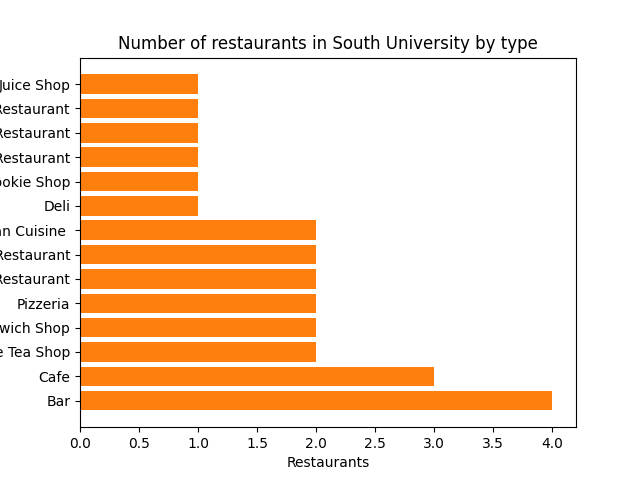
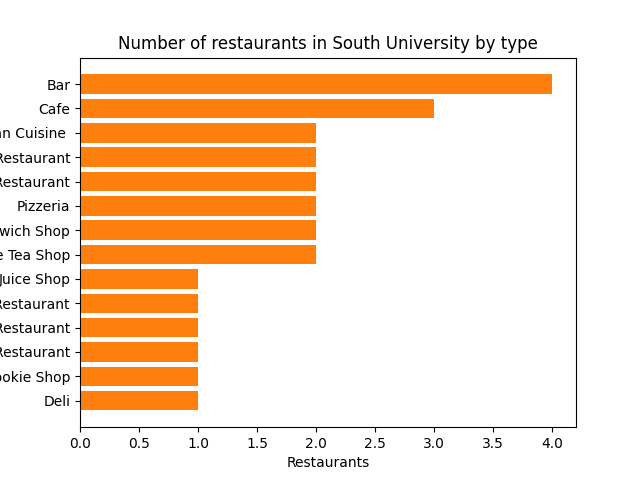
modifed bar chart

diff --git a/HW8.py b/HW8.py
@@ -59,7 +59,7 @@ def plot_rest_categories(db):
         cur.execute(cat_query)
         cat = cur.fetchone()[0]
         temp_dict[cat] = temp_dict.get(cat, 0) + 1
-    temp = sorted(temp_dict.items(), key = lambda x:x[1], reverse = True)
+    temp = sorted(temp_dict.items(), key = lambda x:x[1])
     cat_dict = dict(temp)
     names = list(cat_dict.keys())
     values = list(cat_dict.values())
